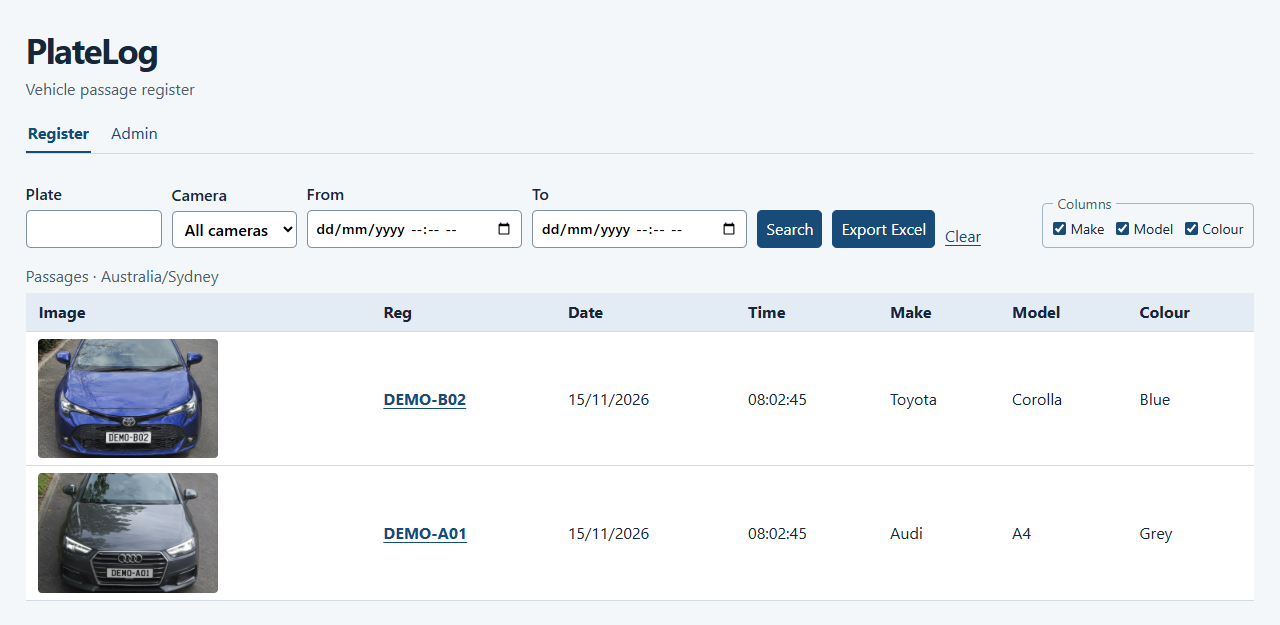
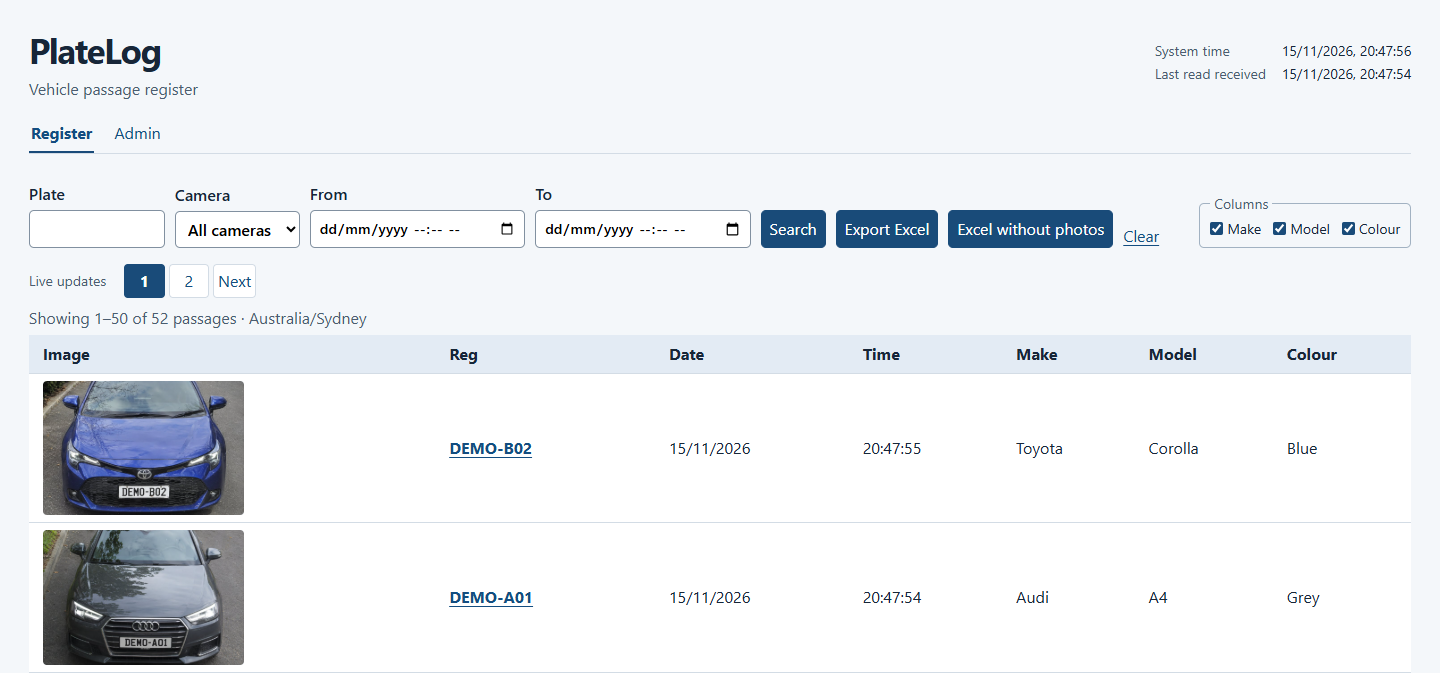
Refresh PlateLog screenshots for the IT handoff

diff --git a/deploy/windows/build_offline.py b/deploy/windows/build_offline.py
@@ -13,6 +13,7 @@ SOURCE = Path(__file__).resolve().parents[2]
 APP_FILES = (
     "README.md", "LICENSE", "technical-spec.md", "requirements.txt", "deploy/windows/README.md",
     "docs/images/register.png", "docs/images/register-search.png", "docs/images/demo-l19mxb.jpg",
+    "docs/images/admin-csv-folder.png",
     "examples/Send-AxisEvent.ps1",
     "deploy/windows/PlateLog.xml", "platelog/__init__.py", "platelog/__main__.py",
     "platelog/axis.py", "platelog/credentials.py", "platelog/daily_csv.py", "platelog/preview.py", "platelog/receiver.py",

diff --git a/README.md b/README.md
@@ -2,7 +2,7 @@
 
 PlateLog is a prototype for a local Axis licence plate register. The browser demo uses simulated captures to show vehicle photos, live plate search, date and time filters, Excel export with photos, and password-protected application settings. A persistent instance can receive Axis HTTP POST events into the same register. The [v1 specification](technical-spec.md) describes the wider pilot.
 
-![PlateLog register showing two synthetic vehicle passages with photos](docs/images/register.png)
+![PlateLog register showing synthetic vehicle photos, the clock and last read time, Excel export options, and pagination](docs/images/register.png)
 
 Typing `AO1` finds the corrected plate `DEMO-A01` by its original camera read.
 
@@ -133,6 +133,8 @@ The register opens without sign-in by default. To require sign-in, sign in to **
 Under **Retention**, new installations start with automatic cleanup enabled and keep passages for 360 days and photos for 90 days. Existing installations keep their current cleanup setting, including the previous off default if nobody saved a preference. Cleanup runs at startup and hourly while enabled. **Purge now** asks for confirmation and applies the saved limits immediately, even when automatic cleanup is off. Purging a passage removes all of its event packets and photos. A passage expires based on its last capture, and a photo expires based on its own capture. Shorter photo retention can leave a passage searchable with an **Image expired** label. **Storage** shows passage, event and photo counts, and **Recent admin activity** records purges and settings changes.
 
 Under **Daily CSV report**, enable the schedule, choose a time such as `00:05`, and enter an existing destination folder. **Test folder** checks the entered path from the PlateLog service by writing, reading back, and removing a temporary file. Use **Save CSV schedule** to apply your changes. PlateLog writes `platelog-YYYY-MM-DD.csv` for the previous calendar day in the register's time zone. It includes headers even on empty days. The rows reflect the passages still in the register when the report runs. If the folder is temporarily unavailable, PlateLog retries the previous day's export while it is still due and shows the result in Admin.
+
+![Daily CSV report settings with Test folder beside the destination field](docs/images/admin-csv-folder.png)
 
 For a remote Windows share, use a UNC folder such as `\\fileserver\reports\PlateLog`. In Docker, mount the destination into the container and enter its path inside the container. [Microsoft guidance on services and redirected drives](https://learn.microsoft.com/en-us/windows/win32/services/services-and-redirected-drives)
 
